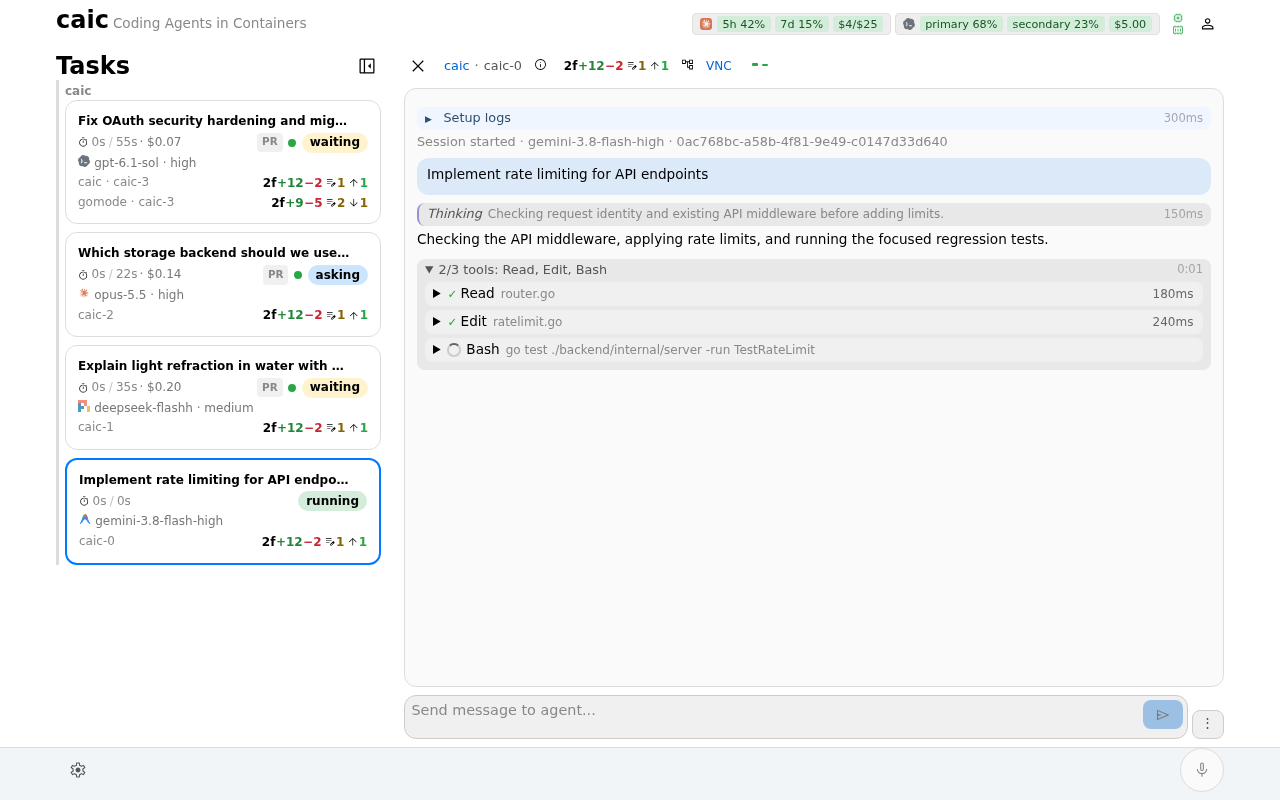
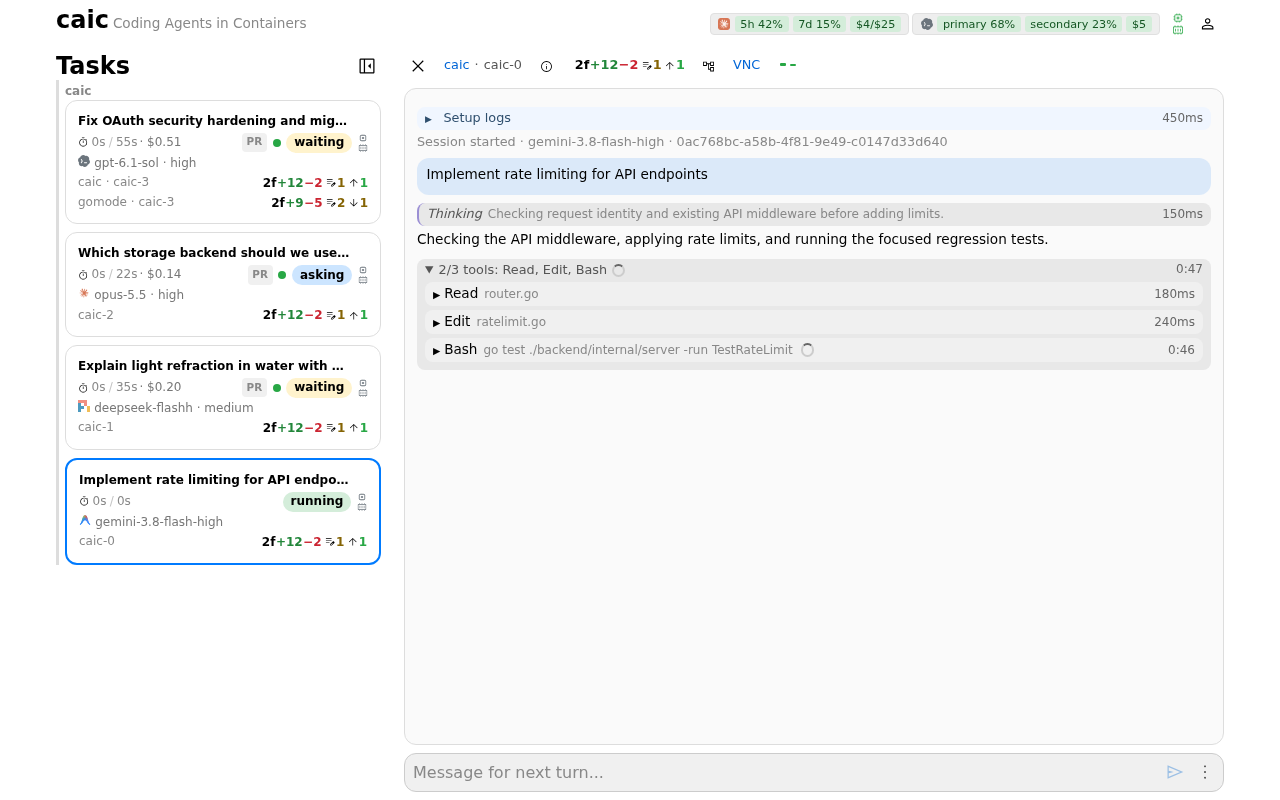
Sync caic guides with caic 2302b40: voice modes and the new installer
Voice: caic now requires voice-gateway.mode ("embedded" or "external")
instead of deriving it from GEMINI_API_KEY. The embedded gateway reads Go
Mode's voice-choices.toml beside config.toml, or the release defaults, and
takes provider keys from the process environment only; [voice-gateway.config]
is gone. webrtc_udp_port and stun_servers moved to [voice-gateway].

Installation: the installer takes no arguments (NO_SERVICE and GITHUB_TOKEN
are gone), verifies checksums, requires a usable Docker or Podman, and
installs the macOS agent as com.fghbuild.caic. Document removing the old
com.caic.caic agent, which the installer leaves running. Drop the manual
service recipes; contrib/README.md points other workflows to a source build.

Tasks: queued prompts append and return to the composer with Edit or Arrow
Up; pre-push hooks run in the task container with a cancellable timeline
entry; task cards show background work, with the new background capture,
and failed turns; host pressure colors the contributing tasks. List
DeepSeek Harness (dsh), the AI provider probe order, and per-harness
compaction settings.

Import caic's current captures. The md row of the sync table is unchanged:
md was not reviewed in this pass.

Validation: pnpm run fix, verify, build, and wrangler deploy --dry-run pass.

diff --git a/caic/configuration.md b/caic/configuration.md
@@ -64,9 +64,9 @@ shell_env = false
 
 **`[core.env]`**
 
-Feature and provider credentials that caic looks up by name. Depending on the feature, an omitted key can fall back to a harness environment table or the caic server process environment. Common values include `TAILSCALE_API_KEY` for ephemeral container nodes, `GEMINI_API_KEY` for embedded voice, and provider keys used for generated titles and commit descriptions. This table does not add arbitrary variables to the server process or task containers. Put service-wide variables such as `HTTP_PROXY`, `HTTPS_PROXY`, `NO_PROXY`, or `PATH` in the process environment. A systemd installation can set them in `~/.config/caic/caic.env`.
+Feature and provider credentials that caic looks up by name. Depending on the feature, an omitted key can fall back to a harness environment table or the caic server process environment. Common values include `TAILSCALE_API_KEY` for ephemeral container nodes and provider keys used for generated titles, CI failure summaries, and commit messages. Embedded voice reads provider keys from the process environment instead. This table does not add arbitrary variables to the server process or task containers. Put service-wide variables such as `HTTP_PROXY`, `HTTPS_PROXY`, `NO_PROXY`, or `PATH` in the process environment. A systemd installation can set them in `~/.config/caic/caic.env`.
 
-For supported provider usage cards, caic looks for the recognized API key first in `[core.env]`, then in any `[harness.<name>.env]` table, and finally in the server process environment. API-key usage cards are available for DeepSeek, OpenRouter, and Xiaomi. Claude Code and Codex usage cards use their authenticated sessions instead. Experimental Antigravity quota reporting uses the authenticated `agy` CLI. Title and commit-description generation reads provider keys from `[core.env]` and then the server process environment.
+For supported provider usage cards, caic looks for the recognized API key first in `[core.env]`, then in any `[harness.<name>.env]` table, and finally in the server process environment. API-key usage cards are available for DeepSeek, OpenRouter, and Xiaomi. Claude Code and Codex usage cards use their authenticated sessions instead. Experimental Antigravity quota reporting uses the authenticated `agy` CLI. Title, summary, and commit-message generation reads provider keys from `[core.env]` and then the server process environment.
 
 ```toml
 [core]
@@ -91,7 +91,7 @@ Image pruning uses the same cron syntax. It removes md-built images that no cont
 
 ### Preferences
 
-`~/.config/caic/preferences.json` stores per-user settings independent of `config.toml`. Edit it directly or through the Settings UI, which exposes the container image, CPU architecture and platform, CPU cores, the preferred runtime when both Docker and Podman are available, well-known caches, custom cache mappings, custom host mounts, purge delay, auto-fix CI and PR toggles, per-model thinking effort, per-harness model refresh, and version information with manual update checks.
+`~/.config/caic/preferences.json` stores per-user settings independent of `config.toml`. Edit it directly or through the Settings UI, which exposes the container image, CPU architecture and platform, CPU cores, the preferred runtime when both Docker and Podman are available, well-known caches, custom cache mappings, custom host mounts, purge delay, auto-fix CI and PR toggles, per-model thinking effort, per-harness context compaction settings, per-harness model refresh, and version information with manual update checks.
 
 The purge delay is the recovery window for an active or crashed task after you choose Purge. The default is 15 seconds and the allowed range is 10 seconds to 24 hours. Reviving the task during this window cancels deletion. Purging a task that is already stopped deletes it immediately.
 
@@ -142,41 +142,38 @@ allow_origins = ["local", "tailscale", "github", "CA"]
 
 ### `[voice-gateway]`
 
-caic embeds the [Go Mode voice gateway](https://docs.gomode.dev/guide/voice) when `GEMINI_API_KEY` is available and `url` is empty. Set `url` to use a separate gateway, or leave both unset to disable voice.
+`mode` selects how caic serves [Go Mode voice](https://docs.gomode.dev/guide/voice). Voice is disabled until you set it.
 
-| Key                       | Default    | Description                                                          |
-| ------------------------- | ---------- | -------------------------------------------------------------------- |
-| `url`                     | Not set    | HTTPS URL of a standalone gateway                                    |
-| `token_mode`              | `"scoped"` | Standalone session credential mode: `"scoped"` or `"oauth"`          |
-| `instance_id`             | Not set    | Required unique identifier for this caic instance in standalone mode |
-| `signing_private_key_pem` | Not set    | PKCS#8 Ed25519 private key file for standalone `"scoped"` tokens     |
+| Key                       | Default                            | Description                                                             |
+| ------------------------- | ---------------------------------- | ----------------------------------------------------------------------- |
+| `mode`                    | `"disabled"`                       | `"disabled"`, `"embedded"` to host the gateway in caic, or `"external"` |
+| `webrtc_udp_port`         | `0`                                | Embedded: UDP port for WebRTC audio. `0` selects an ephemeral port      |
+| `stun_servers`            | `["stun:stun.l.google.com:19302"]` | Embedded: STUN servers clients use to learn their public address        |
+| `url`                     | Not set                            | External: HTTPS URL of the standalone gateway                           |
+| `instance_id`             | Not set                            | External: unique identifier for this caic instance                      |
+| `token_mode`              | `"scoped"`                         | External: session credential mode, `"scoped"` or `"oauth"`              |
+| `signing_private_key_pem` | Not set                            | External: PKCS#8 Ed25519 private key file for `"scoped"` tokens         |
 
-Standalone mode requires an explicit HTTPS `[server] external_url`, except for loopback development. Scoped tokens require a signing key; OAuth tokens use caic's authorization-server key instead and require a configured dashboard login provider. The gateway must trust the same service, issuer, and token mode. See [Voice](./voice#standalone-gateway) for a complete example.
+Embedded mode reads its voice choices from `voice-choices.toml` beside `config.toml`, or uses the defaults built into the release. caic owns the HTTP listener, so configure HTTP through `[server] http`. Open `webrtc_udp_port` in your firewall for remote WebRTC clients. `stun_servers = []` keeps clients from contacting any STUN server; that works when clients reach the UDP port directly or through its UPnP mapping.
 
-**`[voice-gateway.config]`** configures the embedded gateway. Its settings follow the [gateway configuration template](https://github.com/caic-xyz/caic/blob/main/contrib/voice-gateway-config.toml). `backend = "gemini-live"` uses Gemini Live; `backend = "local-stack"` uses managed or external local models. The embedded activation rule still requires `GEMINI_API_KEY` even with the local stack, although that backend does not use the key.
-
-Set `webrtc_udp_port` under `[voice-gateway.config.server]` to use a fixed UDP port. Its default `0` selects an ephemeral port. Open the selected port in your firewall for remote WebRTC clients. Configure HTTP through `[server] http`; embedded gateway HTTP cannot be configured separately.
+External mode requires an explicit HTTPS `[server] external_url`, except for loopback development. Scoped tokens require a signing key; OAuth tokens use caic's authorization-server key instead and require a configured dashboard login provider. The gateway must trust the same service, issuer, and token mode. See [Voice](./voice#standalone-gateway) for a complete example.
 
 ```toml
-[voice-gateway.config]
-backend = "gemini-live"
-
-[voice-gateway.config.server]
+[voice-gateway]
+mode = "embedded"
 webrtc_udp_port = 3479
 ```
 
-See the [Go Mode voice guide](https://docs.gomode.dev/guide/voice) for gateway backends, speech modes, and standalone operation.
-
 ### `[ai]`
 
-LLM provider for title generation and commit descriptions.
+LLM provider for task titles, CI failure summaries, and commit messages.
 
-| Key        | Default     | Description                                                                                                           |
-| ---------- | ----------- | --------------------------------------------------------------------------------------------------------------------- |
-| `provider` | auto-detect | Provider name. When unset, probes in this order: `codex`, `opencode`, `claudecode`, then any other available provider |
-| `model`    | cheapest    | Model name or alias. Uses the provider's cheapest model when unset                                                    |
+| Key        | Default     | Description                                                                                                       |
+| ---------- | ----------- | ----------------------------------------------------------------------------------------------------------------- |
+| `provider` | auto-detect | Provider name. When unset, probes `codex`, `claudecode`, `opencode`, `pi`, `antigravity`, then the others by name |
+| `model`    | cheapest    | Model name or alias. Uses the provider's cheapest model when unset                                                |
 
-Available providers: see the [genai providers](https://pkg.go.dev/github.com/maruel/genai/providers) package.
+Command-line agents (`codex`, `claudecode`, `dsh`, `antigravity`, `opencode`, `pi`) use their own login and run without their coding-agent prompt, tools, or user configuration. API providers include `anthropic`, `gemini`, `openai`, and `openrouter`; see the [genai providers](https://pkg.go.dev/github.com/maruel/genai/providers) package for the full list.
 
 ```toml
 [ai]
@@ -196,6 +193,9 @@ ANTHROPIC_API_KEY = "sk-..."
 # Codex configuration is primarily via its own config file:
 # https://developers.openai.com/codex/config-reference
 
+[harness.dsh.env]
+DEEPSEEK_API_KEY = "sk-..."
+
 [harness.opencode.env]
 # OpenCode configuration: https://opencode.ai/docs/config/
 
@@ -205,7 +205,7 @@ GEMINI_API_KEY = "AIza..."
 OPENROUTER_API_KEY = "sk-or-..."
 ```
 
-Available harness names: `antigravity` (experimental), `claude`, `codex`, `opencode`, `pi`.
+Available harness names: `antigravity` (experimental), `claude`, `codex`, `dsh` (DeepSeek Harness), `opencode`, `pi`.
 
 Setting `ANTHROPIC_API_KEY` can make Claude Code use API billing instead of your subscription. When caic detects a Claude Code OAuth session, it avoids forwarding this key so the subscription remains in use.
 
@@ -286,7 +286,7 @@ Use `https://<your-domain>/auth/google/callback` as the authorized redirect URI 
 
 ## Environment variables
 
-`GEMINI_API_KEY` and `TAILSCALE_API_KEY` fall back to the server process environment when absent from `[core.env]`. That environment includes values imported from your login shell, unless `shell_env` is false. Provider usage lookup also checks harness environment tables before the process environment, as described above. `XDG_CONFIG_HOME` and `XDG_CACHE_HOME` change the base directories described above. Set proxy variables and other service-wide values in the process environment rather than `[core.env]`.
+`TAILSCALE_API_KEY` and title provider keys fall back to the server process environment when absent from `[core.env]`. Embedded voice reads provider keys only from the process environment. That environment includes values imported from your login shell, unless `shell_env` is false. Provider usage lookup also checks harness environment tables before the process environment, as described above. `XDG_CONFIG_HOME` and `XDG_CACHE_HOME` change the base directories described above. Set proxy variables and other service-wide values in the process environment rather than `[core.env]`.
 
 ## HTTPS exposure
 

diff --git a/caic/security.md b/caic/security.md
@@ -52,19 +52,19 @@ GitHub and GitLab webhooks require a configured secret and are verified before t
 
 ### Server-side storage
 
-| Credential                                                                                    | Storage                                                          | Notes                                                                                                          |
-| --------------------------------------------------------------------------------------------- | ---------------------------------------------------------------- | -------------------------------------------------------------------------------------------------------------- |
-| Forge personal access tokens                                                                  | `config.toml` in plaintext                                       | Restrict file permissions                                                                                      |
-| OAuth client secrets                                                                          | `config.toml` in plaintext                                       | Restrict file permissions                                                                                      |
-| GitHub App private key                                                                        | PEM file in the config directory                                 | The config stores its path                                                                                     |
-| Gemini API key                                                                                | `config.toml` or server environment                              | Used for title generation and embedded voice                                                                   |
-| Tailscale API key                                                                             | `config.toml` or server environment                              | Used for ephemeral task nodes                                                                                  |
-| Provider API keys                                                                             | `[core.env]`, a harness environment table, or server environment | Used for supported usage cards; `[core.env]` and server values can also support titles and commit descriptions |
-| Harness environment credentials                                                               | `[harness.<name>.env]` in `config.toml`                          | Written into matching task containers and used for that harness's model refresh                                |
-| Webhook secrets                                                                               | `config.toml` in plaintext                                       | Used to verify webhooks                                                                                        |
-| Dashboard session secret and MCP issuer signing key                                           | `settings.json` in plaintext                                     | Generated on first launch                                                                                      |
-| User profiles and forge OAuth tokens                                                          | `users.json`                                                     | Used for login and per-user forge access                                                                       |
-| MCP clients, grants, hashed refresh-token family state, and private access-token signing keys | `oauth_refresh_tokens.json`                                      | Persists MCP authorization and revocation across restarts                                                      |
+| Credential                                                                                    | Storage                                                          | Notes                                                                                                      |
+| --------------------------------------------------------------------------------------------- | ---------------------------------------------------------------- | ---------------------------------------------------------------------------------------------------------- |
+| Forge personal access tokens                                                                  | `config.toml` in plaintext                                       | Restrict file permissions                                                                                  |
+| OAuth client secrets                                                                          | `config.toml` in plaintext                                       | Restrict file permissions                                                                                  |
+| GitHub App private key                                                                        | PEM file in the config directory                                 | The config stores its path                                                                                 |
+| Gemini API key                                                                                | `config.toml` or server environment                              | Used for title generation; embedded voice reads it from the server environment only                        |
+| Tailscale API key                                                                             | `config.toml` or server environment                              | Used for ephemeral task nodes                                                                              |
+| Provider API keys                                                                             | `[core.env]`, a harness environment table, or server environment | Used for supported usage cards; `[core.env]` and server values can also support titles and commit messages |
+| Harness environment credentials                                                               | `[harness.<name>.env]` in `config.toml`                          | Written into matching task containers and used for that harness's model refresh                            |
+| Webhook secrets                                                                               | `config.toml` in plaintext                                       | Used to verify webhooks                                                                                    |
+| Dashboard session secret and MCP issuer signing key                                           | `settings.json` in plaintext                                     | Generated on first launch                                                                                  |
+| User profiles and forge OAuth tokens                                                          | `users.json`                                                     | Used for login and per-user forge access                                                                   |
+| MCP clients, grants, hashed refresh-token family state, and private access-token signing keys | `oauth_refresh_tokens.json`                                      | Persists MCP authorization and revocation across restarts                                                  |
 
 These files live under `~/.config/caic/`. Restrict that directory to your user, for example with `chmod 700 ~/.config/caic`.
 
@@ -126,7 +126,7 @@ Tools and resources outside the approved scopes are not exposed to the client. A
 
 ## Voice security
 
-Voice can run through embedded Gemini Live, a standalone gateway, or a local model stack. WebRTC audio is processed in memory rather than saved by caic. Short-lived service-issued credentials authorize each voice session. A standalone gateway receives the public verification material but not caic's private signing key.
+Voice is disabled until you configure an embedded or standalone gateway. Either one can use cloud or local models. WebRTC audio is processed in memory rather than saved by caic. Short-lived service-issued credentials authorize each voice session. A standalone gateway receives the public verification material but not caic's private signing key.
 
 ## What caic does not protect
 

diff --git a/caic/installation.md b/caic/installation.md
@@ -2,7 +2,8 @@
 
 ## Prerequisites
 
-- **Docker or Podman** installed and running
+- Linux or macOS on amd64 or arm64
+- **Docker or Podman** installed and usable by your user
 
 caic uses Docker when both runtime commands are installed, and Podman when only Podman is installed. [Configuration](./configuration) covers choosing the runtime for new tasks.
 
@@ -12,83 +13,35 @@ caic uses Docker when both runtime commands are installed, and Podman when only 
 curl -fsSL https://caic.xyz/install.sh | bash
 ```
 
-The install script:
+The install script takes no arguments. It:
 
-1. Downloads the latest `caic` and `md` binaries to `~/.local/bin/`
-2. Copies a default `config.toml` to `~/.config/caic/` (if not already present)
-3. Installs and starts a system service (systemd on Linux, launchd on macOS)
+1. Downloads the latest stable `caic` and `md` releases, verifies their SHA-256 checksums, and installs both binaries in `~/.local/bin/`
+2. Copies a default `config.toml` to `~/.config/caic/`, or `$XDG_CONFIG_HOME/caic/` when set, if none exists
+3. Installs and starts a user service
 
-After installation, caic is running on `http://localhost:2242`. The default `root = "."` is resolved from the service working directory, not from the directory where you invoked the installer. The systemd unit uses your home directory. Set an explicit `[core] root` in `~/.config/caic/config.toml` before adding repositories.
+Run the same command to update. It keeps your configuration and settings. If a step fails after others completed, the script lists what it installed; correct the error and run it again.
 
-Set `NO_SERVICE=1` to skip service installation:
+After installation, caic is running on `http://localhost:2242`. The default `root = "."` resolves from the service working directory, not from the directory where you ran the installer. Set an explicit `[core] root` in `~/.config/caic/config.toml` before adding repositories.
 
-```bash
-curl -fsSL https://caic.xyz/install.sh | NO_SERVICE=1 bash
-```
+| Platform | User service                | Logs                                                                  |
+| -------- | --------------------------- | --------------------------------------------------------------------- |
+| Linux    | systemd `caic.service`      | `journalctl --user -o cat -f -u caic`                                 |
+| macOS    | launchd `com.fghbuild.caic` | `~/Library/Logs/caic/stdout.log` and `~/Library/Logs/caic/stderr.log` |
 
-If the GitHub release API is rate-limited, set `GITHUB_TOKEN` for authentication:
+caic watches its own executable and `config.toml` and restarts when either changes.
 
-```bash
-export GITHUB_TOKEN="ghp_..."
-curl -fsSL https://caic.xyz/install.sh | bash
-```
+caic imports `PATH`, `SSH_AUTH_SOCK`, and other exported values from your interactive login shell at startup. To use only the service environment instead, set `[core] shell_env = false` in `config.toml`. On Linux, the unit then reads service-only overrides, such as adding a directory to `PATH`, from the optional `~/.config/systemd/user/caic.env`.
 
-## systemd user service (Linux)
+On macOS, the launchd agent sets no working directory, so do not rely on the relative default `root = "."`. Set `[core] root` to an absolute repository parent directory.
 
-The install script sets up the systemd service automatically. To install manually:
+### Upgrade from an earlier macOS agent
 
-```bash
-mkdir -p ~/.config/systemd/user ~/.config/caic
-cp contrib/caic.service ~/.config/systemd/user/
-cp contrib/config.toml ~/.config/caic/config.toml
-# Edit ~/.config/caic/config.toml
-
-systemctl --user daemon-reload
-systemctl --user enable --now caic
-```
-
-View logs:
+Earlier releases installed the launchd agent as `com.caic.caic`. The installer does not remove it, and both agents would run caic. Remove the old agent:
 
 ```bash
-journalctl --user -o cat -f -u caic
+launchctl bootout "gui/$(id -u)/com.caic.caic"
+rm ~/Library/LaunchAgents/com.caic.caic.plist
 ```
-
-caic watches its own executable and `config.toml` for changes and restarts automatically when either is modified.
-
-caic imports `PATH`, `SSH_AUTH_SOCK`, and other exported values from your interactive login shell at startup. The unit starts without requiring a keyring socket. To use only the service environment instead, set `[core] shell_env = false` in `config.toml`.
-
-The unit optionally reads `~/.config/caic/caic.env`. With `shell_env = false`, use this file for service-only environment overrides, such as adding `~/.local/bin` to `PATH`. The service starts normally when the file is absent.
-
-## launchd user agent (macOS)
-
-The install script sets up the launchd agent automatically. To install manually, publish the plist with your own absolute paths:
-
-```bash
-mkdir -p ~/.config/caic "$HOME/Library/LaunchAgents"
-cp contrib/config.toml ~/.config/caic/config.toml
-# Edit ~/.config/caic/config.toml
-
-plist="$HOME/Library/LaunchAgents/com.caic.caic.plist"
-logs="$HOME/Library/Logs/caic"
-mkdir -p "$logs"
-cp contrib/com.caic.caic.plist "$plist"
-plutil -replace ProgramArguments.0 -string "$HOME/.local/bin/caic" -- "$plist"
-plutil -replace StandardOutPath -string "$logs/stdout.log" -- "$plist"
-plutil -replace StandardErrorPath -string "$logs/stderr.log" -- "$plist"
-plutil -lint -- "$plist"
-
-launchctl bootstrap gui/$(id -u) "$plist"
-```
-
-View logs:
-
-```bash
-tail -f "$HOME/Library/Logs/caic/stdout.log" "$HOME/Library/Logs/caic/stderr.log"
-```
-
-launchd starts caic directly, without a shell wrapper. To update an existing agent, replace its plist and run `launchctl bootout` then `launchctl bootstrap`. Log rotation needs separate configuration.
-
-The launchd template does not set a working directory, so do not rely on the relative default `root = "."`. Set `[core] root` to an absolute repository parent directory.
 
 ## Install from source
 

diff --git a/caic/tasks.md b/caic/tasks.md
@@ -22,7 +22,7 @@ The transcript streams agent text and tool calls. Expand a tool call to inspect 
   <figcaption>Send a follow-up when the agent finishes a turn.</figcaption>
 </figure>
 
-Follow the agent while it runs. When a task waits for another message or asks a structured question, respond to continue. Agents can also render interactive widgets in the conversation.
+Follow the agent while it runs. When a task waits for another message or asks a structured question, respond to continue. A message you send while the agent works is queued and delivered after the current turn; later messages append to the same queued prompt. Choose **Edit**, or press `Arrow Up` in an empty composer, to move the queued prompt back into the composer. Agents can also render interactive widgets in the conversation.
 
 <figure class="docs-figure">
   <a class="docs-screenshot-link" href="/screenshots/frontend/desktop/task-running.webp" target="_blank" rel="noopener"><img class="docs-screenshot" src="/screenshots/frontend/desktop/task-running.webp" alt="Running agent task with streamed output and tool activity" width="1280" height="800" loading="lazy" decoding="async"></a>
@@ -41,6 +41,13 @@ When an agent presents a plan, review it before continuing.
   <figcaption>Delegated work stays inside the task that owns it.</figcaption>
 </figure>
 
+Task cards show running background commands, subagents, and watches as icons beside the model, and a failed turn's error while the task waits.
+
+<figure class="docs-figure">
+  <a class="docs-screenshot-link" href="/screenshots/frontend/desktop/task-background.webp" target="_blank" rel="noopener"><img class="docs-screenshot" src="/screenshots/frontend/desktop/task-background.webp" alt="A running task with a background command, a watch, and a background subagent, counted by icons on its task card" width="1280" height="800" loading="lazy" decoding="async"></a>
+  <figcaption>Background work keeps a task running and stays visible on its card and below the conversation.</figcaption>
+</figure>
+
 Agent links to generated images and files open in a document pane beside the conversation. Prompt images appear as thumbnails and open in the same pane. caic serves them from the task log, so they survive reloads. The conversation stays mounted while you read, and app-viewport full screen hides the surrounding chrome. caic previews Markdown with relative links and images, PDFs, audio, video, bounded text, and CAD models: STL, STEP or STP, compressed STEP, and 3MF with filament colors and printing plates where the file provides them. Mermaid diagrams render inline in Markdown. Other files offer a raw download. On mobile, the task and document use separate views. These files depend on the task's retained runtime, so save artifacts you need before purging it.
 
 ## Review and push
@@ -52,7 +59,7 @@ Open a repository's changes from the task card or task view. Check commit histor
   <figcaption>Review the work in each repository before pushing.</figcaption>
 </figure>
 
-Choose the appropriate push action to send a task branch to its remote, or squash-push the changes to the default branch. caic scans for common secrets before pushing; treat this as a safety net, not a guarantee. A multi-repository push can succeed for some repositories and fail for others. Inspect the result before retrying.
+Choose the appropriate push action to send a task branch to its remote, or squash-push the changes to the default branch. caic scans for common secrets before pushing; treat this as a safety net, not a guarantee. When the repository has a pre-push hook, caic runs it inside the task container against the commit being pushed, and a rejection stops the push. The task timeline shows each push as one entry with the hook's output; cancel a running push from that entry. A multi-repository push can succeed for some repositories and fail for others. Inspect the result before retrying.
 
 [GitHub](./github) and [GitLab](./gitlab) integration provide pull request or merge request creation and CI monitoring. Check your forge setup before enabling automatic CI repair or PR creation in **Settings**.
 
@@ -79,6 +86,8 @@ The account menu's **Monitoring** page groups three sections. **Usage** shows cr
   <a class="docs-screenshot-link" href="/screenshots/frontend/desktop/usage.webp" target="_blank" rel="noopener"><img class="docs-screenshot" src="/screenshots/frontend/desktop/usage.webp" alt="Cross-task usage dashboard with daily token and cost trends" width="1280" height="800" loading="lazy" decoding="async"></a>
   <figcaption>Compare usage across tasks and days.</figcaption>
 </figure>
+
+When host CPU or memory is under pressure, the task list colors the tasks that contribute most to it.
 
 Provider cards show available quota information. Support and freshness vary by provider; an unknown balance does not mean unlimited capacity.
 

diff --git a/caic/voice.md b/caic/voice.md
@@ -12,24 +12,27 @@ Voice numbers active tasks before settled tasks. Check the visible list when a n
 
 ## Embedded gateway
 
-Set `GEMINI_API_KEY` and leave the gateway URL empty to host the gateway inside caic:
+Voice stays disabled until you choose a mode. Set `mode = "embedded"` to host the gateway inside caic:
 
 ```toml
-[core.env]
-GEMINI_API_KEY = "AIza..."
+[voice-gateway]
+mode = "embedded"
 ```
 
-Without a key or gateway URL, voice is disabled. The key can also come from the server process environment. The gateway's default backend uses Gemini Live, so audio is sent to that provider.
+The embedded gateway offers the same voice choices as the [standalone Go Mode gateway](https://docs.gomode.dev/guide/voice#voice-choices): realtime models, separate recognition, language model, and speech stages, and local models. Without a `voice-choices.toml` file beside `config.toml`, caic uses the defaults built into its release. Copy the [default choices](https://github.com/gomodedev/gomode/blob/main/voicegateway/voice-choices.toml) to customize them; the copy replaces the defaults entirely.
+
+Provider API keys such as `GEMINI_API_KEY` come from caic's process environment, including values imported from your login shell. `[core.env]` does not supply them. Audio for a cloud choice is sent to that provider.
 
 ## Standalone gateway
 
-A standalone gateway lets you run voice separately from caic. Configure a fixed service URL and instance ID, and choose its session credential mode. Before using OAuth credentials, configure a supported [dashboard login provider](./configuration#github) so caic can issue and verify authenticated sessions. Then add:
+A standalone gateway lets you run voice separately from caic. Set `mode = "external"`, a fixed service URL and instance ID, and choose its session credential mode. Before using OAuth credentials, configure a supported [dashboard login provider](./configuration#github) so caic can issue and verify authenticated sessions. Then add:
 
 ```toml
 [server]
 external_url = "https://caic.example.com"
 
 [voice-gateway]
+mode = "external"
 url = "https://voice.example.com"
 instance_id = "caic-main"
 token_mode = "oauth"
@@ -45,25 +48,13 @@ openssl genpkey -algorithm Ed25519 -out ~/.config/caic/voice-signing-key.pem
 
 Change `token_mode` to `"scoped"` and set `signing_private_key_pem = "voice-signing-key.pem"` alongside `instance_id`, and configure the gateway's trusted issuer with the public key printed by caic at startup. See [Go Mode voice](https://docs.gomode.dev/guide/voice) for gateway installation and trust configuration.
 
-## Local models
-
-To use local speech recognition, an LLM, and speech synthesis, choose the local stack:
-
-```toml
-[voice-gateway.config]
-backend = "local-stack"
-```
-
-The local stack runs half-duplex: you speak and listen in turns. It can manage models or connect to local model servers. Embedded activation currently still requires `GEMINI_API_KEY` to be present, but this backend does not consume that key or send audio to Gemini.
-
-Use the [caic gateway config template](https://github.com/caic-xyz/caic/blob/main/contrib/voice-gateway-config.toml) for embedded settings, and the [Go Mode voice guide](https://docs.gomode.dev/guide/voice) for local runtime requirements. Avoid copying standalone gateway settings into caic's embedded HTTP configuration.
-
 ## Network access
 
-WebRTC audio needs a reachable UDP port. The default chooses an ephemeral port; the gateway can request a temporary UPnP mapping on a compatible router. To create a stable firewall rule, set a fixed port:
+The embedded gateway's WebRTC audio needs a reachable UDP port. The default chooses an ephemeral port; the gateway can request a temporary UPnP mapping on a compatible router. To create a stable firewall rule, set a fixed port:
 
 ```toml
-[voice-gateway.config.server]
+[voice-gateway]
+mode = "embedded"
 webrtc_udp_port = 3479
 ```
 

diff --git a/caic/index.md b/caic/index.md
@@ -13,7 +13,7 @@ caic runs coding agents in parallel on your own machine. Each task gets an [md](
 
 ## What you can do
 
-- Run **Claude Code, Codex, OpenCode, or Pi**. Experimental **Antigravity** support uses the `agy` CLI.
+- Run **Claude Code, Codex, DeepSeek Harness, OpenCode, or Pi**. Experimental **Antigravity** support uses the `agy` CLI.
 - Choose **Docker or Podman** for new tasks and work across multiple repositories.
 - Follow streamed output, tool calls, native subagents, structured questions, and plans.
 - Review commits and file diffs, preview documents, media, and CAD models, and inspect task usage, machine health, and server metrics.

diff --git a/caic/architecture.md b/caic/architecture.md
@@ -123,7 +123,7 @@ A configured GitHub App can react to a labeled issue, a pull request targeting t
 
 ## Voice
 
-The web UI and Android app can stream WebRTC audio to embedded Gemini Live, a standalone gateway, or a local model stack. See [Voice](./voice) for usage and [Configuration](./configuration) for gateway options.
+The web UI and Android app can stream WebRTC audio to a gateway embedded in caic or to a standalone gateway, each offering cloud and local voice choices. See [Voice](./voice) for usage and [Configuration](./configuration) for gateway options.
 
 ## Updates and image maintenance
 

diff --git a/AGENTS.md b/AGENTS.md
@@ -62,7 +62,7 @@ The docs were last reconciled against these upstream commits. When updating, rev
 
 | Repo | Tag | Commit | Date |
 |---|---|---|---|
-| caic | checkout | `3d4ee70277630a7a375fb49b4007f7526c4b9aa0` | 2026-10-22 |
+| caic | checkout | `2302b40bb608441e37b2974ccda8e91428033a4c` | 2026-11-18 |
 | md | checkout | `98615114d684e24c29b07ca0f90c7b86b6cdf0ca` | 2026-10-21 |
 
 Screenshots in `public/screenshots/frontend` are captured from the caic commit in the table. When you update that commit, refresh the screenshots with `pnpm run screenshots:import` before committing.
